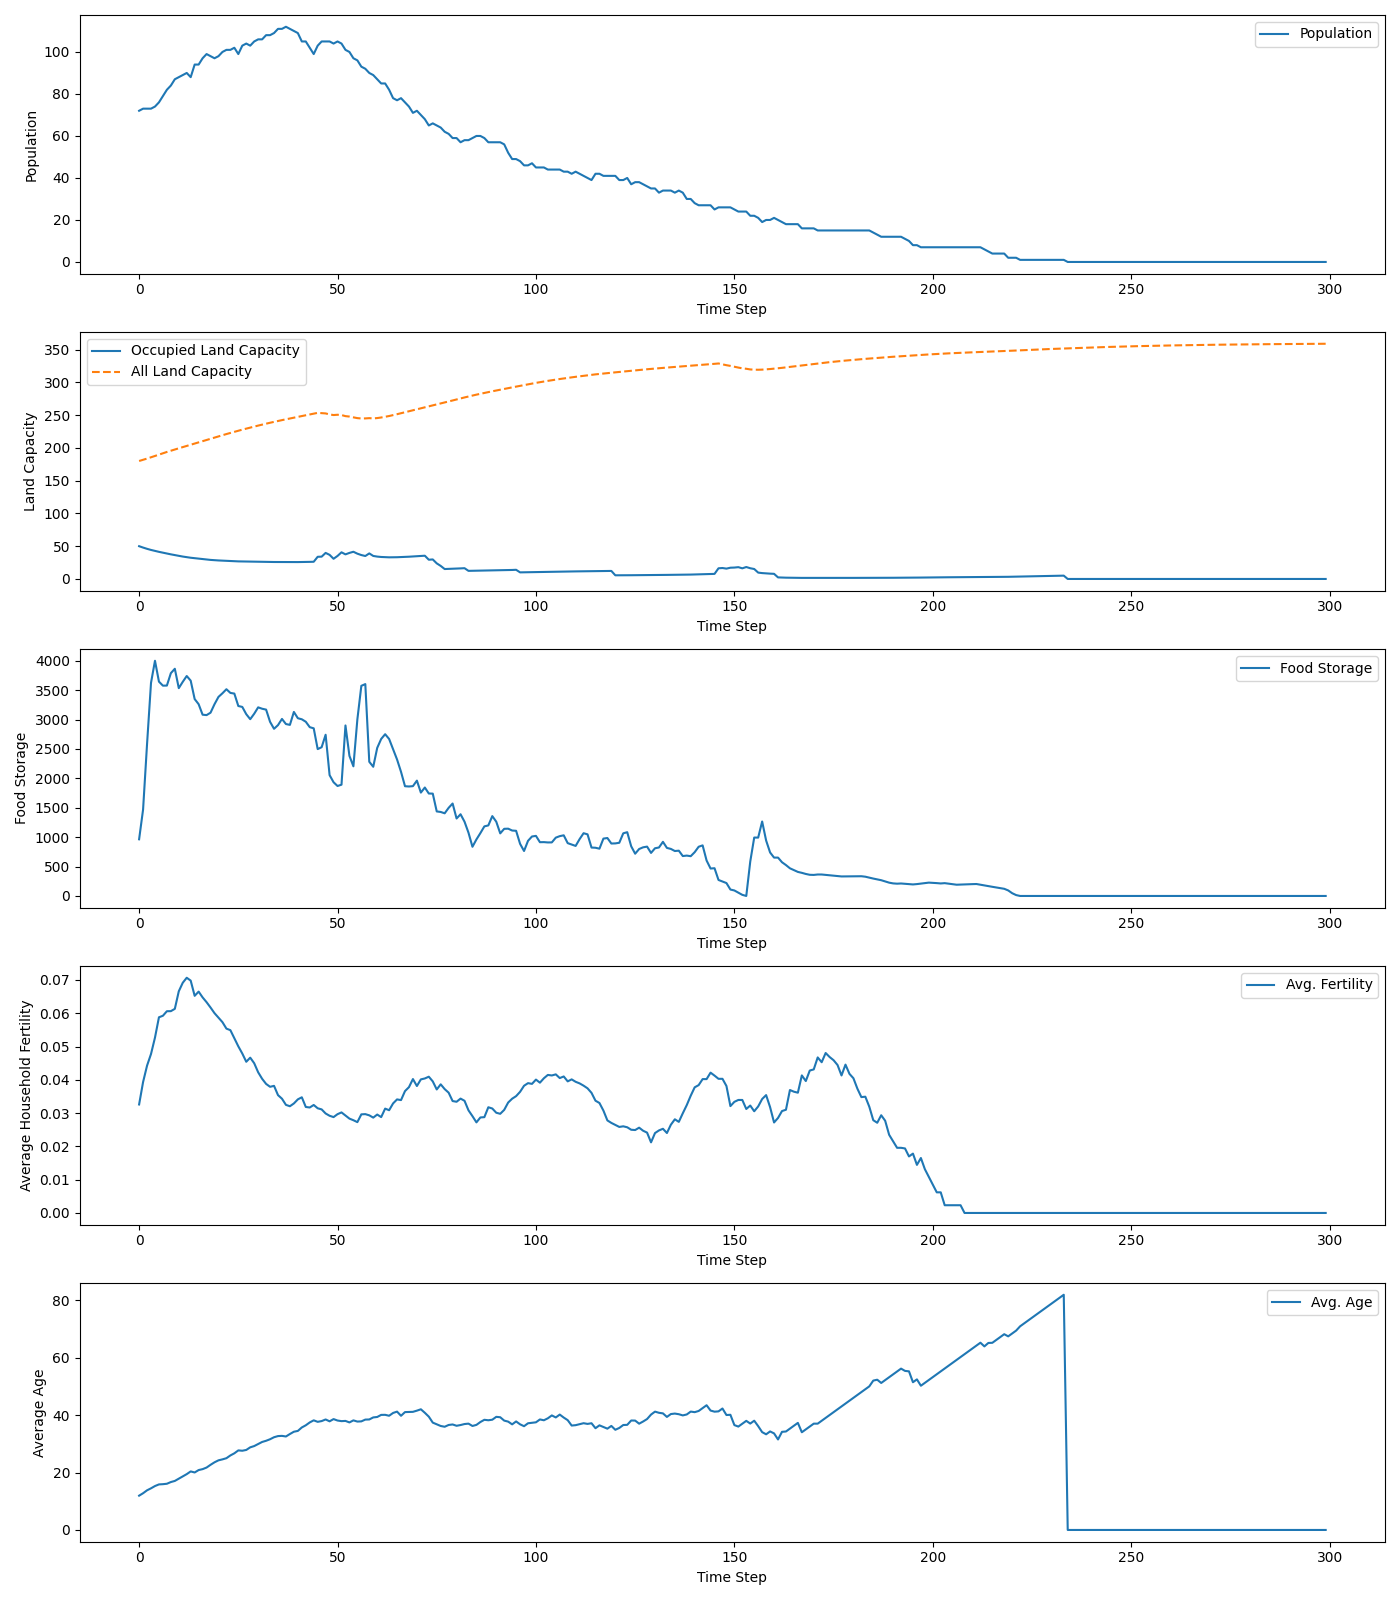
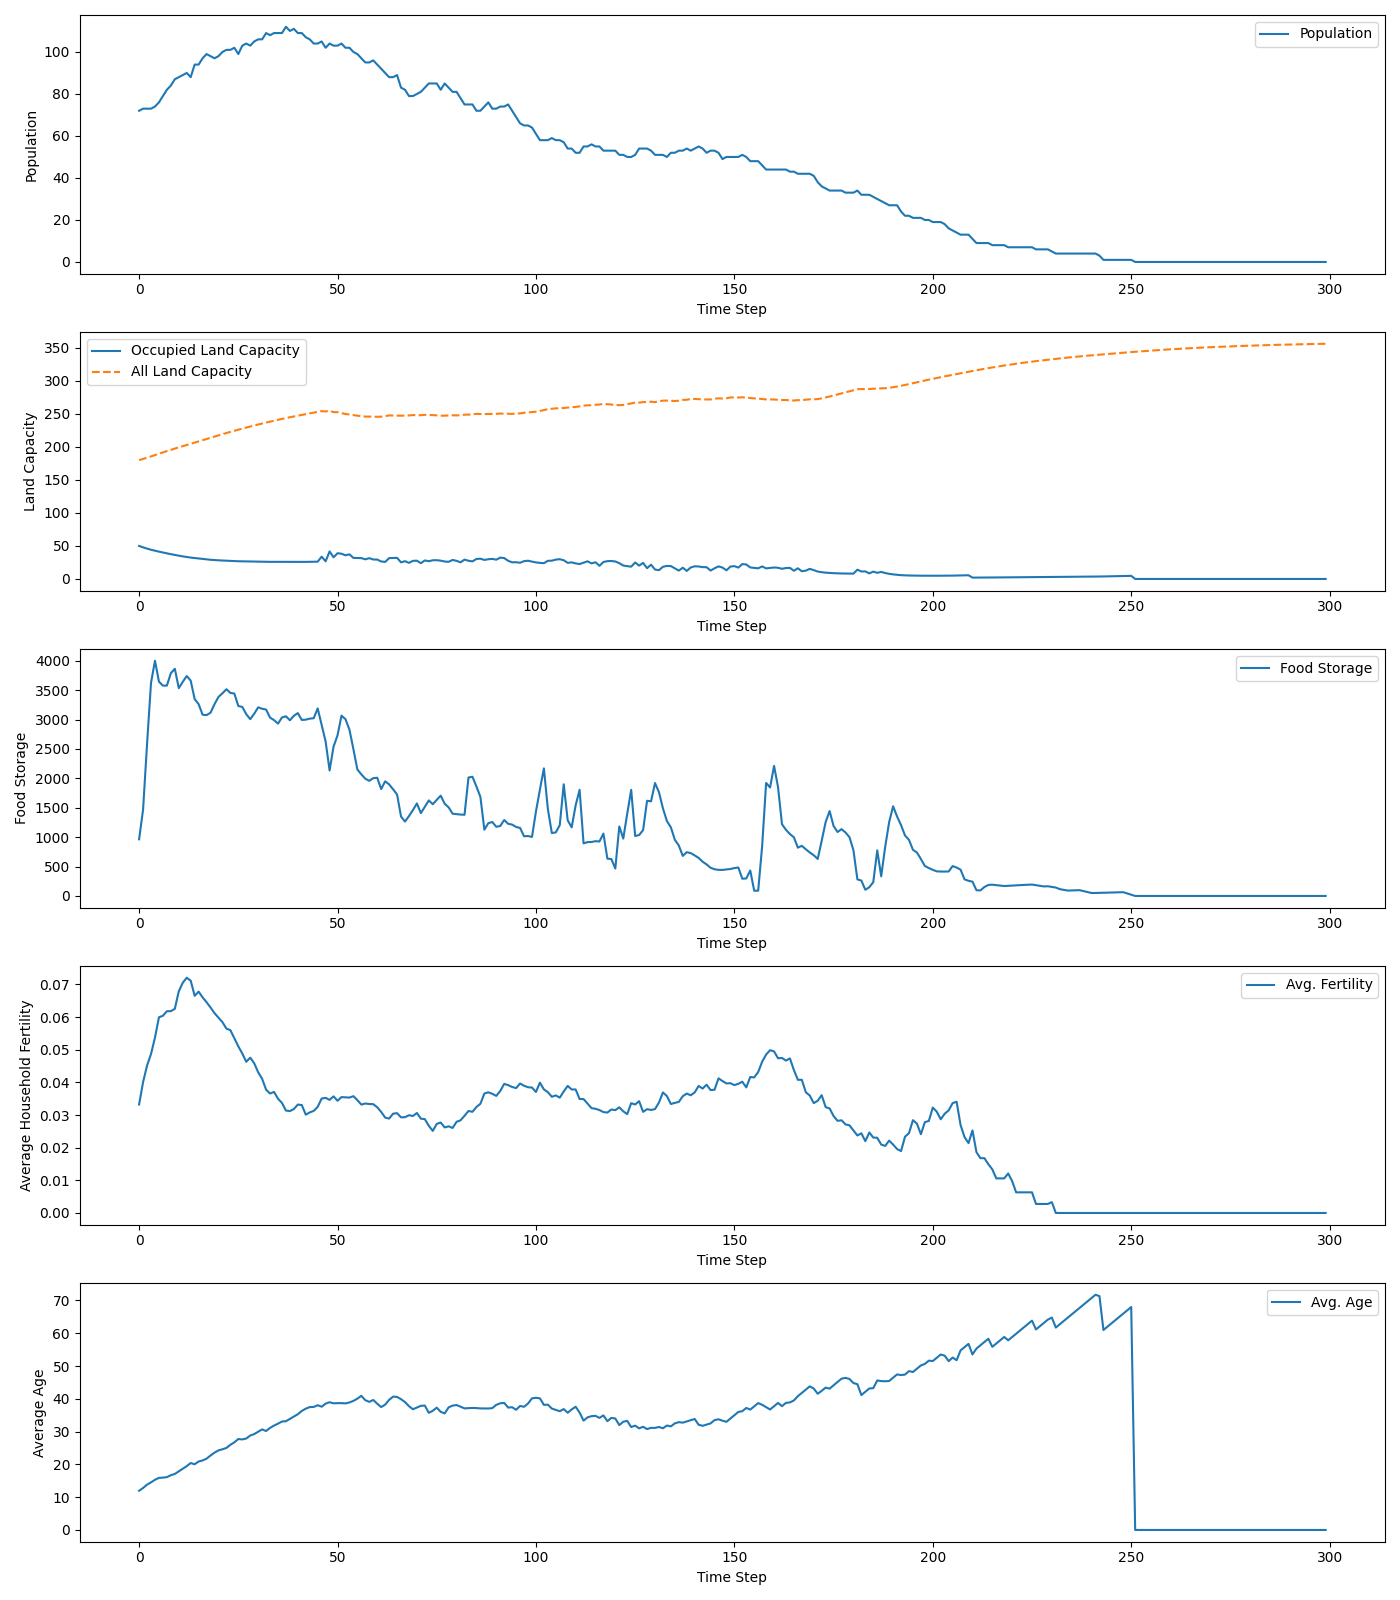
modified:   .DS_Store 	modified:   Plot.png 	modified:   __pycache__/agent.cpython-312.pyc 	modified:   __pycache__/village.cpython-312.pyc 	modified:   agent.py

diff --git a/agent.py b/agent.py
@@ -75,7 +75,7 @@ class Agent:
         # z = person_share / person_need
 
         # print(f'Z value {z}; person pocess {person_share}; personal need: {person_need}')
-        z = 1
+        # z = 1
         age_index = self.get_age_group_index()
         
         survival_probability = self.vec1.pstar[age_index] * sp.gdtr(1.0 / self.vec1.mortscale, self.vec1.mortparms[age_index], z)
@@ -121,5 +121,5 @@ class Agent:
     def bride_price_need(self):
         agent_house = household.get_household_by_id(self.household_id)
         agent_house_num = len(agent_house.members)
-        
+
 
